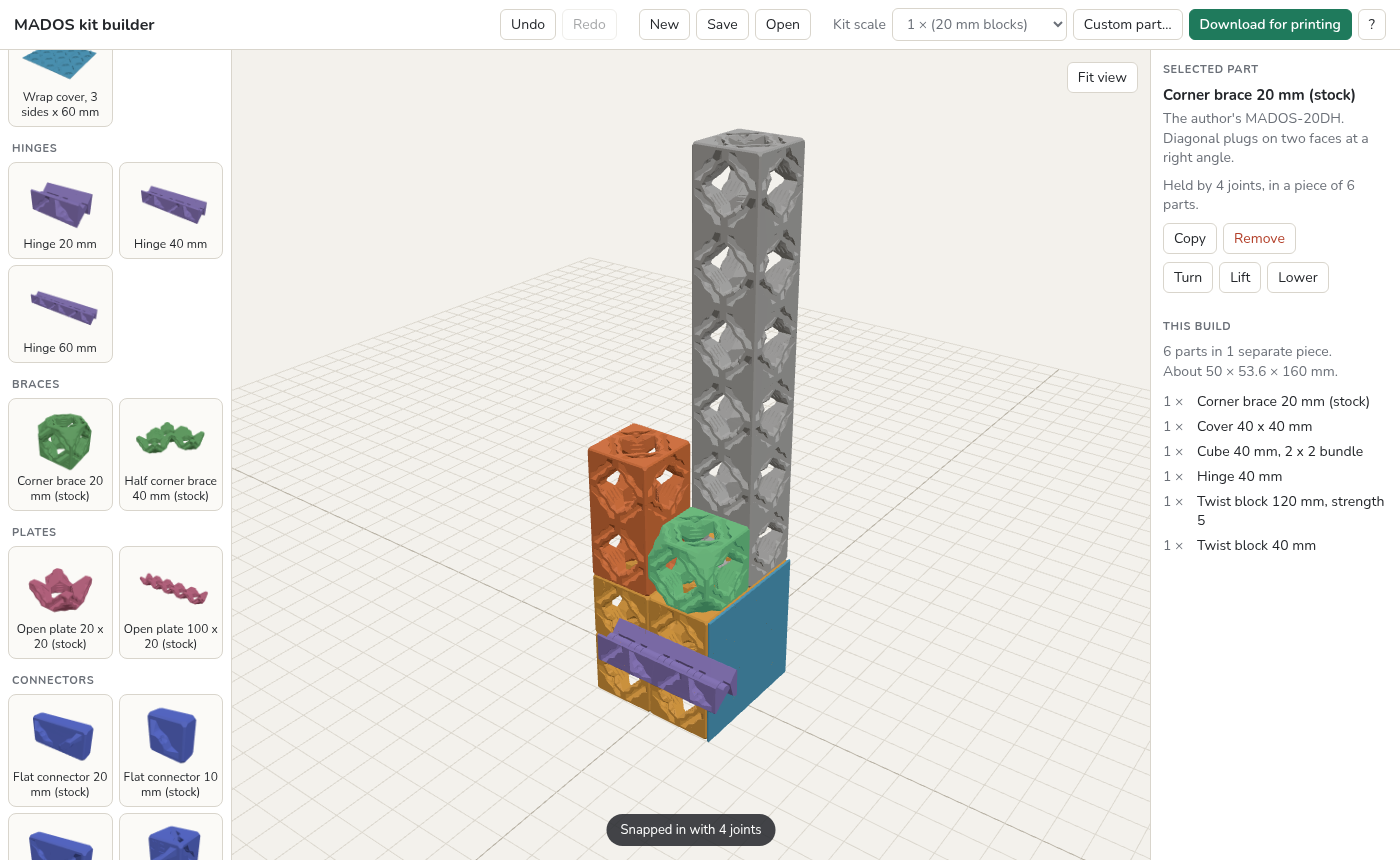
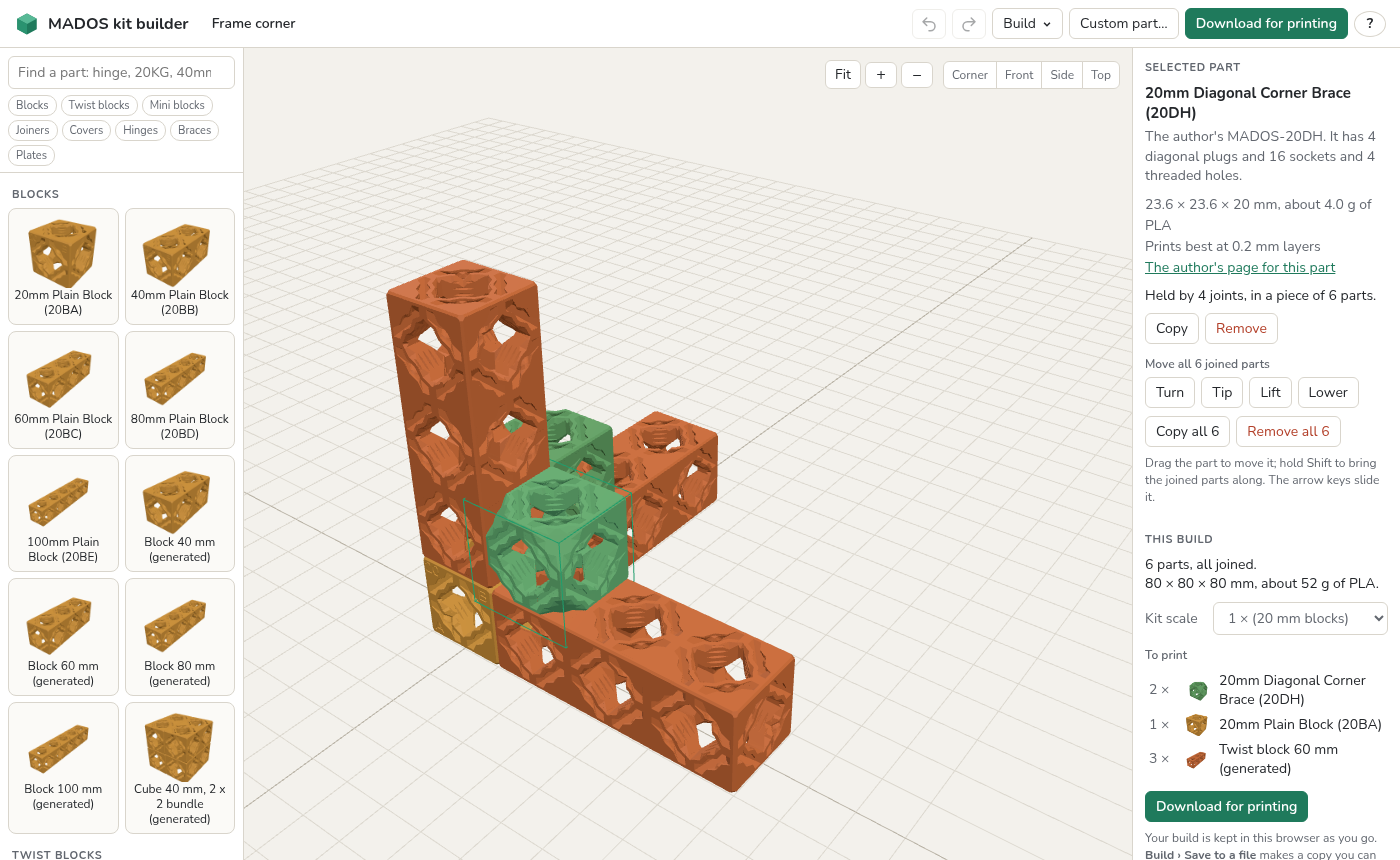
README pictures and usage for the new interface, and tests for it
tools/screenshots.js retakes the README's pictures. New logic tests cover the
partly-joined report, settling with all plugs in, spinning a part that has to
flip, attaching to the part under the cursor, links that carry a build, the
examples and the catalogue's print details. A damaged link no longer leaves a
stray error behind.

diff --git a/tools/screenshots.js b/tools/screenshots.js
@@ -1,0 +1,70 @@
+// Takes the pictures of the builder that the README shows, into docs/.  Run it from the
+// repository's top folder whenever the interface changes:
+//
+//   python3 serve.py --no-browser &
+//   playwright-cli open http://127.0.0.1:8377/
+//   playwright-cli --raw run-code --filename=tools/screenshots.js
+//   playwright-cli close
+async page => {
+  const app = (fn, arg) => page.evaluate(fn, arg);
+  const settle = (ms = 500) => page.waitForTimeout(ms);
+  const example = (file) => app(async (f) => {
+    const build = await (await fetch(`examples/${f}`)).json();
+    window.madosApp.open(build);
+    window.madosApp.select(null);
+  }, file).then(() => page.waitForFunction(() => window.madosApp.drawn().every((row) => row.ok)));
+  const theme = (wanted) => app((w) => { if (document.documentElement.dataset.theme !== w) document.getElementById("theme").click(); }, wanted);
+  const hush = () => app(() => { document.getElementById("hint").textContent = ""; });
+
+  await page.setViewportSize({ width: 1400, height: 860 });
+  await app(() => { localStorage.clear(); localStorage.setItem("mados-kit-build-seen", "1"); });
+  await page.reload();
+  await page.waitForFunction(() => window.madosApp);
+  await theme("light");
+
+  // the builder with a finished build in it, one part selected
+  await example("frame-corner.json");
+  await app(() => window.madosApp.select(5));
+  await settle(); await hush();
+  await page.screenshot({ path: "docs/builder.png" });
+
+  // a part held over the build: the green outline shows where it will snap
+  await app(() => window.madosApp.select(null));
+  await page.fill("#search", "cover 20 x 60");
+  const from = await app(() => window.madosApp.card("cover_20x60_s4"));
+  const over = await app(() => window.madosApp.project([40, -10, 10]));
+  await page.mouse.move(from[0], from[1]);
+  await page.mouse.down();
+  await page.mouse.move(from[0] + 30, from[1] + 10, { steps: 4 });
+  await page.mouse.move(over[0], over[1], { steps: 12 });
+  await settle(300);
+  await page.screenshot({ path: "docs/snapping.png" });
+  await page.keyboard.press("Escape");
+  await page.mouse.up();
+  await page.fill("#search", "");
+
+  // what to print
+  await example("first-joints.json");
+  await settle();
+  await page.click("#export");
+  await settle(300);
+  await page.screenshot({ path: "docs/print-list.png" });
+  await page.click("#export-cancel");
+
+  // dark colours, with a hinge selected
+  await theme("dark");
+  await example("hinged-lid.json");
+  await app(() => window.madosApp.select(2));
+  await settle(); await hush();
+  await page.screenshot({ path: "docs/dark.png" });
+  await theme("light");
+
+  // a phone
+  await page.setViewportSize({ width: 400, height: 800 });
+  await example("frame-corner.json");
+  await settle(); await hush();
+  await page.screenshot({ path: "docs/phone.png" });
+  await page.setViewportSize({ width: 1400, height: 860 });
+  await app(() => { localStorage.removeItem("mados-kit-theme"); });
+  return "docs/builder.png, snapping.png, print-list.png, dark.png, phone.png written";
+}

diff --git a/app/share.js b/app/share.js
@@ -39,8 +39,9 @@ const fromBase64Url = (text) => {
 
 async function through(stream, bytes) {
   const writer = stream.writable.getWriter();
-  writer.write(bytes);
-  writer.close();
+  // a damaged link fails on the reading side below; the writing side must not also complain
+  writer.write(bytes).catch(() => {});
+  writer.close().catch(() => {});
   return new Uint8Array(await new Response(stream.readable).arrayBuffer());
 }
 

diff --git a/README.md b/README.md
@@ -5,7 +5,7 @@ block system by MADOS 3D. Drag parts into a scene, let go, and they snap togethe
 system's own joint rules. When the build is done, the builder tells you how many of each
 part to print and hands you the files.
 
-![The builder with a small build in it](docs/builder.png)
+![The builder with a frame corner in it, one brace selected](docs/builder.png)
 
 This is an unofficial community project. It is not made or endorsed by MADOS 3D.
 
@@ -15,16 +15,44 @@ You need Python 3 and a current browser. Nothing has to be installed.
 
     python3 serve.py
 
-opens the builder at http://127.0.0.1:8377/.
+opens the builder at http://127.0.0.1:8377/. The `app/` folder is a plain static web
+page, so any web host can serve it as it is.
 
-- Drag a part from the list on the left into the scene. Hold it over another part: the
-  green outline shows where it will go. Let go and it snaps in.
-- While dragging, `R` spins the part and `F` tips it over.
-- Drag a placed part to move it; hold `Shift` to move everything joined to it.
-- "Download for printing" gives a zip with one STL for each kind of part, named with how
-  many to print, a parts list, and the build itself so it can be opened again.
+**Building.** Drag a part out of the list, or click it to stand it on the floor. Hold it
+over another part: a green outline shows where it will go, and if it cannot go there the
+builder says why. Let go and it snaps in.
 
-The `app/` folder is a plain static web page, so any web host can serve it as it is.
+![A cover held over a block, with a green outline where it will snap](docs/snapping.png)
+
+- While holding a part, `R` or the mouse wheel spins it to the next way it fits, and `F`
+  tips it over. `Esc` puts it back.
+- Green rings mark the free plugs a held part can join. Plain blocks only have sockets,
+  so two of them need something between: the builder says so, and points at the parts
+  that do it.
+- Drag a placed part to move it. `Shift` brings everything joined to it; `Alt` carries
+  off a copy. Dragging a part back onto the list removes it.
+- Click a part to see what it is, how big it is and what it weighs, and to copy, turn,
+  tip, lift or remove it. Hinges and wrap covers show buttons to swing or fold them.
+- Undo and redo cover everything. The build is kept in the browser as you go.
+
+**Printing.** "Download for printing" shows how many of each part to print, about how
+much filament that is, and which parts want finer layers, then gives a zip with one STL
+for each kind of part, a parts list with the author's print advice, and the build itself
+so it can be opened again.
+
+![The list of what to print, with sizes and layer heights](docs/print-list.png)
+
+**Keeping and sharing.** The Build menu saves a build to a file and opens it again,
+copies a link that carries the whole build, saves a picture of the view, and opens three
+small example builds. A saved build can also be dropped onto the page.
+
+**Other screens.** There are dark colours (they follow the system, or Build > Dark
+colours), and on a phone the list moves under the view: pull a part up out of it, or rest
+a finger on it, to pick it up.
+
+| | |
+|---|---|
+| ![The builder in dark colours with a hinge selected](docs/dark.png) | ![The builder on a phone-sized screen](docs/phone.png) |
 
 The list holds all 63 of the author's parts under his own names and numbers, and 20
 generated sizes he does not publish. Three kinds of joint are modelled: the plugs and
@@ -57,8 +85,9 @@ and socket shapes as his parts.
   cover can go on over a joiner that sticks out.
 - The builder does not check that a part can physically be pushed into place, only that
   it fits once there.
-- A twist block is accepted with only one of its four plugs engaged. In the test print
-  that held, but weakly, and the builder does not warn about it.
+- A part is accepted with only some of its plugs in a socket. In the test print a twist
+  block on one plug of four held, but weakly; the builder allows it and marks the part as
+  partly joined.
 - Sockets on stepped or inset faces of nine official parts are not found, so those faces
   refuse parts they would really take.
 - The sideways boss of the block-to-plate joiner (MADOS-20FB) is not modelled.
@@ -67,15 +96,16 @@ and socket shapes as his parts.
 
 | | |
 |---|---|
-| `app/` | the builder: `kit.js` (the joint rule), `scene.js` (the build), `app.js` (the interface) |
-| `app/data/` | the built catalogue: display meshes, print STLs, and where every plug and socket is |
+| `app/` | the builder: `kit.js` (the joint rule), `scene.js` (the build), `app.js` (the interface), `share.js` (builds in links) |
+| `app/data/` | the built catalogue: part pictures, display meshes, print STLs, and where every plug and socket is |
+| `app/examples/` | the example builds the Build menu offers |
 | `serve.py` | local launcher, and parts made to order |
 | `madoskit.py` | part generators: blocks, twist blocks, covers, wrap covers, hinges |
 | `kitlogic.py` | the joint rule in Python: where a part's plugs and sockets are, and when two parts mate |
 | `kitparts.py` | parts as bodies, ports and moving joints |
 | `appdata.py`, `tools/build_app_data.py` | turns parts into `app/data/` |
 | `params.py`, `model.py` | ten example generated parts with their checks |
-| `tools/` | measurement and verification scripts |
+| `tools/` | measurement and verification scripts, and the ones that make the part pictures (`make_thumbnails.js`) and the pictures on this page (`screenshots.js`) |
 | `upstream/` | the list of the author's published files; the files themselves are downloaded, not kept here |
 
 `app/data/` is rebuilt from the author's files. Fetch them as above, plus the print files
@@ -92,6 +122,8 @@ rebuilds only the named parts).
   without the solids overlapping (`tools/check_kit.py`).
 - The JavaScript in the app must give the same answers as the Python reference
   (`node --test app/test/`).
+- The interface is driven with a real mouse and with touch, and what it does is compared
+  with what it should do (`tools/browser_smoke.js`).
 
 ## Licence and credit
 
